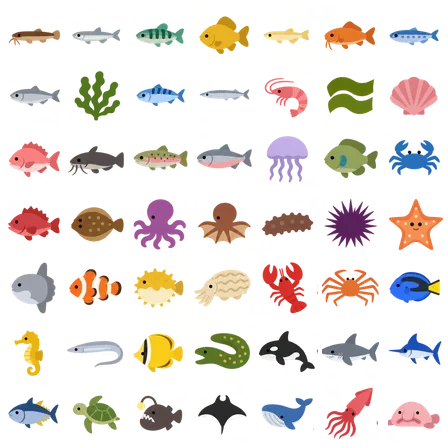
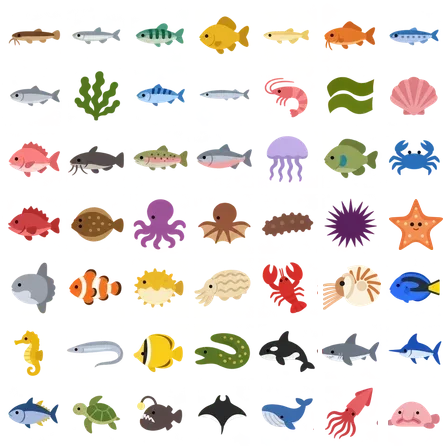
Fishing: the snow crab becomes a nautilus (too close to the blue crab)
New id nautilus (앵무조개, ★3, not out yet, same price). Old snow-crab
records move over (RENAMED). Its cell in the picture sheet is a new
nautilus in the sheet's flat style; the sheet URL moves to ?v=3.

Claude-Session: https://claude.ai/code/session_018gjGZ7iq3htbCqA1X1zLgT

Changed region(s): [[0.7188, 0.5938, 0.875, 0.6875]]

diff --git a/src/core/fishing.js b/src/core/fishing.js
@@ -446,12 +446,14 @@ export const FISH = [
     "price": 18
   },
   {
-    "id": "snow-crab",
-    "emoji": "🦀",
-    "ko": "대게",
-    "rom": "daege",
+    "id": "nautilus",
+    "emoji": "🐚",
+    "ko": "앵무조개",
+    "rom": "aengmujogae",
     "name": {
-      "en": "Snow crab"
+      "en": "Nautilus",
+      "ja": "オウムガイ",
+      "zh": "鹦鹉螺"
     },
     "rarity": 3,
     "released": false,
@@ -725,11 +727,11 @@ export const FISH_SHEET = [
   'herring', 'wakame', 'mackerel', 'saury', 'shrimp', 'kelp', 'scallop',
   'seabream', 'catfish', 'trout', 'salmon', 'jellyfish', 'bluegill', 'crab',
   'rockfish', 'flounder', 'octopus', 'webfoot-octopus', 'sea-cucumber', 'sea-urchin', 'starfish',
-  'sunfish', 'clownfish', 'puffer', 'cuttlefish', 'lobster', 'snow-crab', 'blue-tang',
+  'sunfish', 'clownfish', 'puffer', 'cuttlefish', 'lobster', 'nautilus', 'blue-tang',
   'seahorse', 'cutlassfish', 'butterflyfish', 'moray', 'orca', 'shark', 'marlin',
   'tuna', 'sea-turtle', 'anglerfish', 'manta', 'whale', 'giant-squid', 'blobfish',
 ];
-export const FISH_SHEET_URL = '/assets/fishing/fish-icons.webp?v=2';
+export const FISH_SHEET_URL = '/assets/fishing/fish-icons.webp?v=3';
 // Kinds swapped out of the catalogue (to match the fish book's pictures),
 // each moved to the new kind of the same rarity in its place, so bags and
 // fish books saved before keep their counts.
@@ -737,6 +739,7 @@ export const RENAMED = {
   mandarin: 'sea-turtle', bass: 'scallop', 'horse-mackerel': 'jellyfish', squid: 'marlin',
   filefish: 'wakame', parrotfish: 'kelp', lionfish: 'manta', mandarinfish: 'blobfish', ray: 'orca', swordfish: 'giant-squid',
   crayfish: 'starfish', // too close to the lobster
+  'snow-crab': 'nautilus', // too close to the blue crab
 };
 const migrate = (raw) => {
   const out = { ...raw };

diff --git a/src/style.css b/src/style.css
@@ -1910,7 +1910,7 @@ html[lang='ar'] .gift-cards, html[lang='ar'] .gift-panel { direction: rtl; }
   border: 3px solid var(--ink); box-shadow: inset 0 0 0 2px #fffaf0, inset 0 0 0 4px var(--ink); color: var(--ink); transform: rotate(var(--tilt, -6deg)); background: radial-gradient(circle, rgba(200, 50, 58, 0.06), rgba(200, 50, 58, 0.14)); }
 .fish-stamp-top { font-size: 8px; font-weight: 900; letter-spacing: 1px; opacity: 1 !important; }
 .fish-stamp-fish { font-size: 32px; line-height: 1; }
-.fish-stamp-sprite { width: min(48px, 100%); aspect-ratio: 1; background: url("/assets/fishing/fish-icons.webp?v=2") no-repeat; background-size: 700% 700%; }
+.fish-stamp-sprite { width: min(48px, 100%); aspect-ratio: 1; background: url("/assets/fishing/fish-icons.webp?v=3") no-repeat; background-size: 700% 700%; }
 .fish-pop-big.fish-stamp-sprite { width: 120px; }
 .fish-big.fish-stamp-sprite { width: 76px; }
 .fish-emoji.fish-stamp-sprite { width: 32px; flex: none; }
